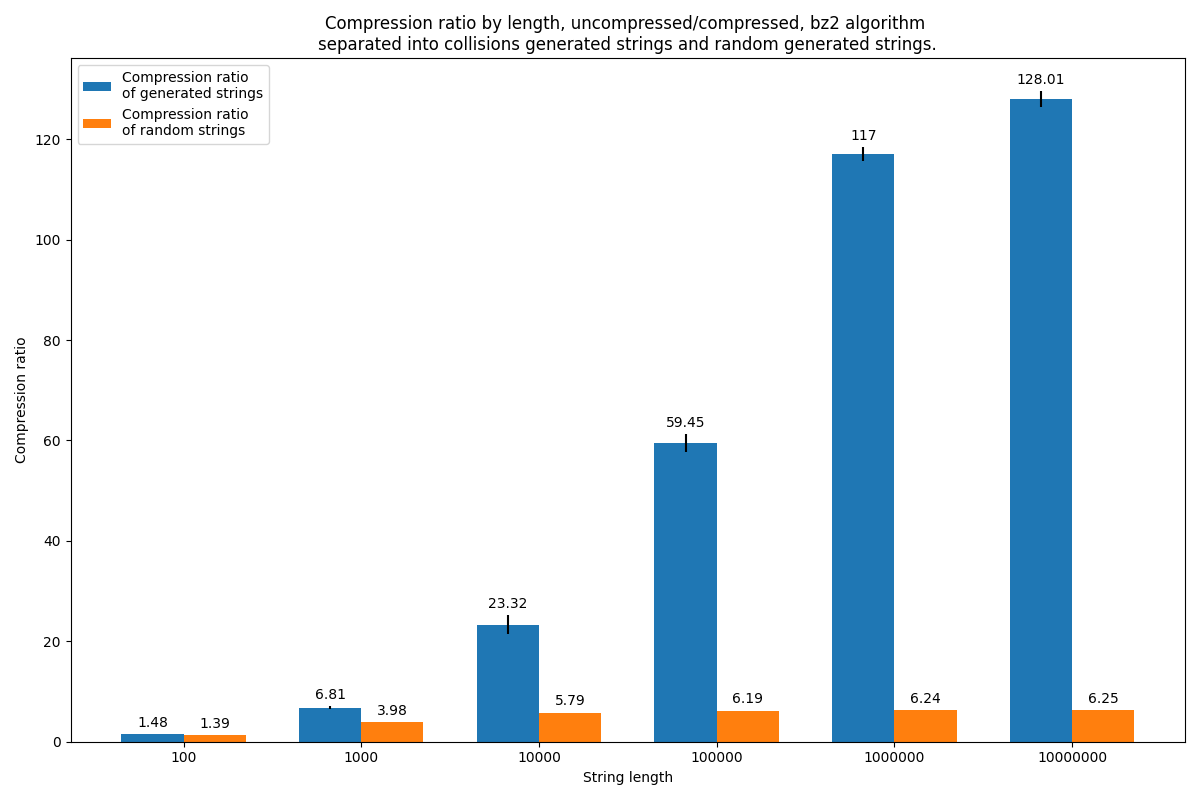
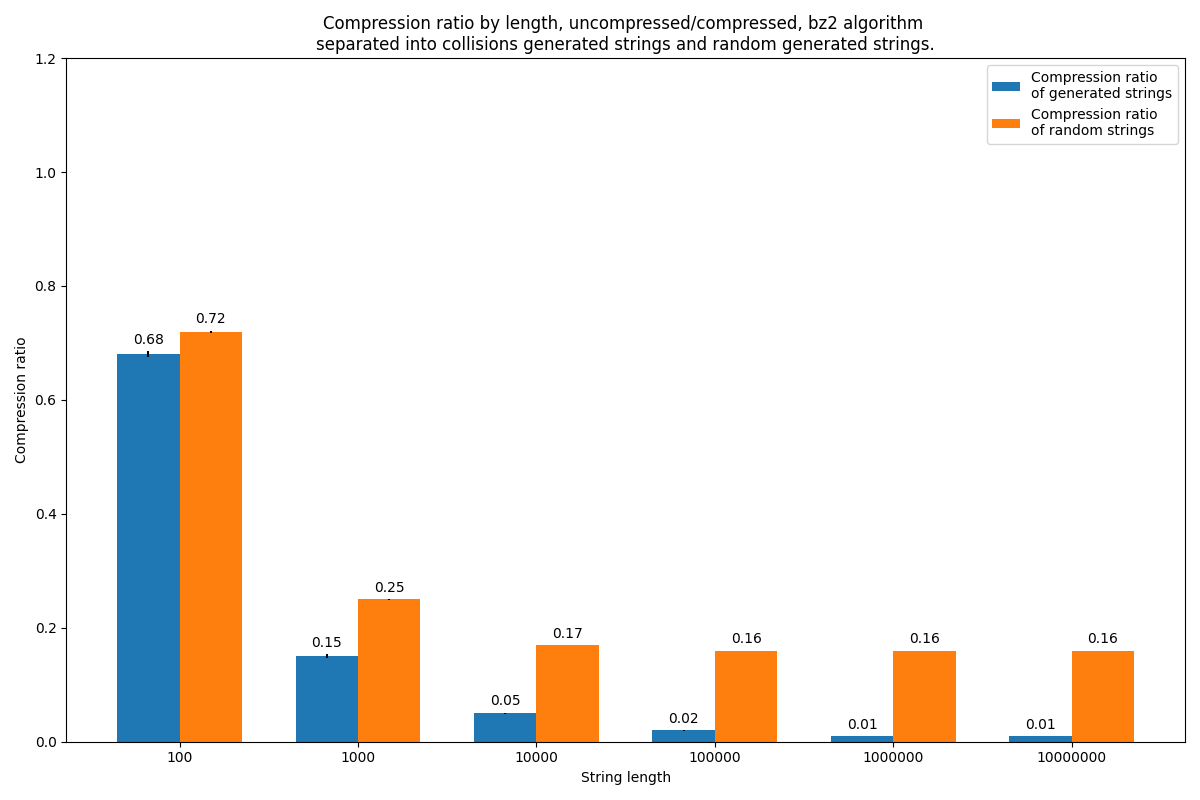
Updated compression plots.

diff --git a/compression_comparison/compression_custom_comparison.py b/compression_comparison/compression_custom_comparison.py
@@ -177,8 +177,8 @@ rand_size_means = [np.mean(sized) for sized in random_sizes]
 gen_comp_means = [np.mean(sized) for sized in compressed_generated]
 rand_comp_means = [np.mean(sized) for sized in compressed_random]
 
-percentage_generated = [[round(gen/gen_comp, 2) for gen_comp in sized] for gen, sized in zip(gen_size_means, compressed_generated)]
-percentage_random = [[round(rand/rand_comp, 2) for rand_comp in sized] for rand, sized in zip(rand_size_means, compressed_random)]
+percentage_generated = [[round(gen_comp/gen, 2) for gen_comp in sized] for gen, sized in zip(gen_size_means, compressed_generated)]
+percentage_random = [[round(rand_comp/rand, 2) for rand_comp in sized] for rand, sized in zip(rand_size_means, compressed_random)]
 
 perc_gen_means = [round(np.mean(size), 2) for size in percentage_generated]
 perc_gen_stds = [jacknife_error(size) for size in percentage_generated]
@@ -197,10 +197,10 @@ rects1 = ax.bar(x - width/2, perc_gen_means, width, yerr=perc_gen_stds, label='C
 rects2 = ax.bar(x + width/2, perc_rand_means, width, yerr=perc_rand_stds, label='Compression ratio \nof random strings')
 
 ax.set_ylabel('Compression ratio')
-ax.set_title('Compression ratio by length, uncompressed/compressed, custom algorithm \nseparated into collisions generated strings and random generated strings.')
+ax.set_title('Compression ratio by length, compressed/uncompressed, custom algorithm \nseparated into collisions generated strings and random generated strings.')
 ax.set_xlabel('String length')
 ax.set_xticks(x, labels)
-# ax.set_ylim(0, 0.2)
+ax.set_ylim(0, 1.2)
 ax.legend()
 
 ax.bar_label(rects1, padding=3)

diff --git a/compression_comparison/compression_bz2_comparison.py b/compression_comparison/compression_bz2_comparison.py
@@ -49,8 +49,8 @@ rand_size_means = [np.mean(sized) for sized in random_sizes]
 gen_comp_means = [np.mean(sized) for sized in compressed_generated]
 rand_comp_means = [np.mean(sized) for sized in compressed_random]
 
-percentage_generated = [[round(gen/gen_comp, 2) for gen_comp in sized] for gen, sized in zip(gen_size_means, compressed_generated)]
-percentage_random = [[round(rand/rand_comp, 2) for rand_comp in sized] for rand, sized in zip(rand_size_means, compressed_random)]
+percentage_generated = [[round(gen_comp/gen, 2) for gen_comp in sized] for gen, sized in zip(gen_size_means, compressed_generated)]
+percentage_random = [[round(rand_comp/rand, 2) for rand_comp in sized] for rand, sized in zip(rand_size_means, compressed_random)]
 
 perc_gen_means = [round(np.mean(size), 2) for size in percentage_generated]
 perc_gen_stds = [jacknife_error(size) for size in percentage_generated]
@@ -71,7 +71,7 @@ ax.set_ylabel('Compression ratio')
 ax.set_title('Compression ratio by length, uncompressed/compressed, bz2 algorithm \nseparated into collisions generated strings and random generated strings.')
 ax.set_xlabel('String length')
 ax.set_xticks(x, labels)
-# ax.set_ylim(0, 0.2)
+ax.set_ylim(0, 1.2)
 ax.legend()
 
 ax.bar_label(rects1, padding=3)

diff --git a/compression_comparison/compresion_zlib_comparison.py b/compression_comparison/compresion_zlib_comparison.py
@@ -51,8 +51,8 @@ rand_size_means = [np.mean(sized) for sized in random_sizes]
 gen_comp_means = [np.mean(sized) for sized in compressed_generated]
 rand_comp_means = [np.mean(sized) for sized in compressed_random]
 
-percentage_generated = [[round(gen/gen_comp, 2) for gen_comp in sized] for gen, sized in zip(gen_size_means, compressed_generated)]
-percentage_random = [[round(rand/rand_comp, 2) for rand_comp in sized] for rand, sized in zip(rand_size_means, compressed_random)]
+percentage_generated = [[round(gen_comp/gen, 2) for gen_comp in sized] for gen, sized in zip(gen_size_means, compressed_generated)]
+percentage_random = [[round(rand_comp/rand, 2) for rand_comp in sized] for rand, sized in zip(rand_size_means, compressed_random)]
 
 perc_gen_means = [round(np.mean(size), 2) for size in percentage_generated]
 perc_gen_stds = [jacknife_error(size) for size in percentage_generated]
@@ -74,7 +74,7 @@ ax.set_ylabel('Compression ratio')
 ax.set_title('Compression ratio by length, uncompressed/compressed, zlib \nseparated into collisions generated strings and random generated strings.')
 ax.set_xlabel('String length')
 ax.set_xticks(x, labels)
-# ax.set_ylim(0, 0.2)
+ax.set_ylim(0, 1.2)
 ax.legend()
 
 ax.bar_label(rects1, padding=3)

diff --git a/3_particle_random_analysis.py b/3_particle_random_analysis.py
@@ -54,7 +54,7 @@ def convert_to_timestep(filepath):
 
     return masses, positions, velocities
 
-for i in range(2, 10):
+for i in range(10):
     masses, positions, velocities = convert_to_timestep('Experiments/3_particles/random' + str(i))
 
     fig, axes = plt.subplots(nrows=2, ncols=1, figsize=(12, 8))
